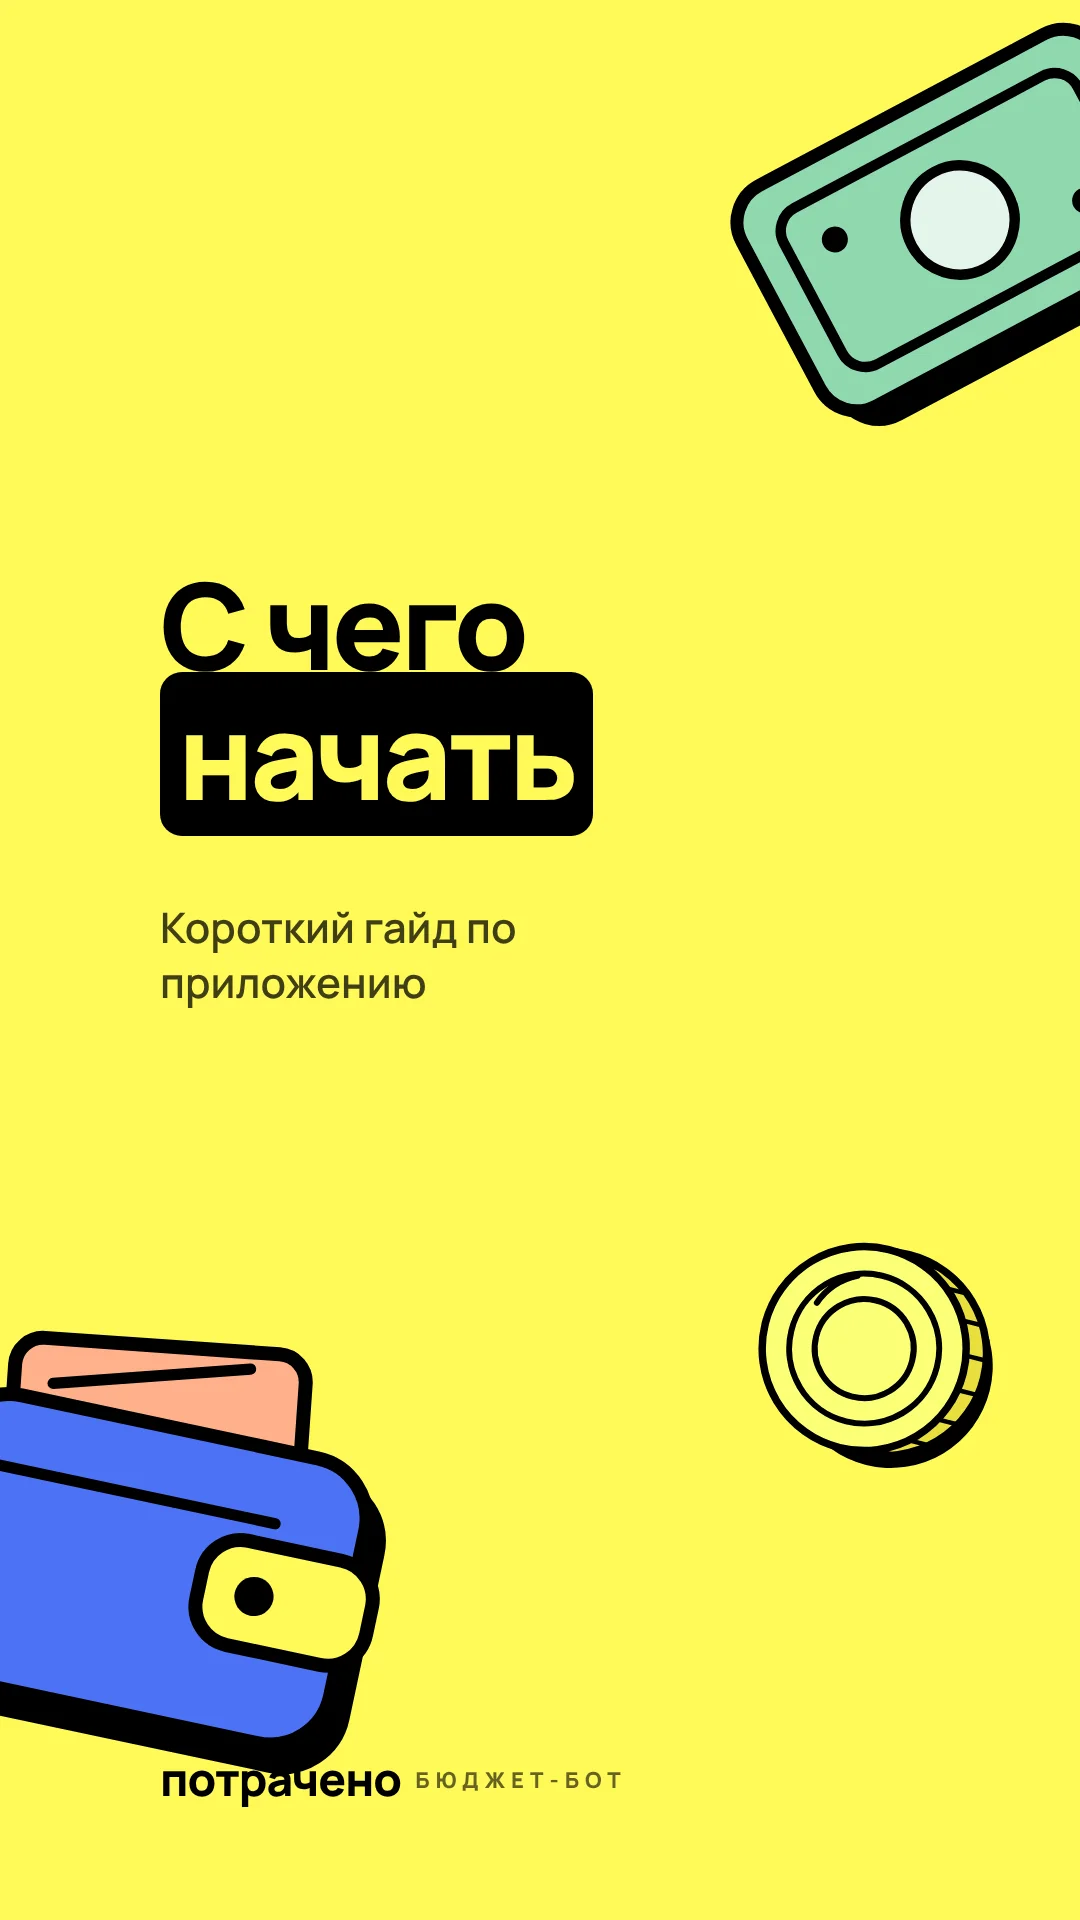
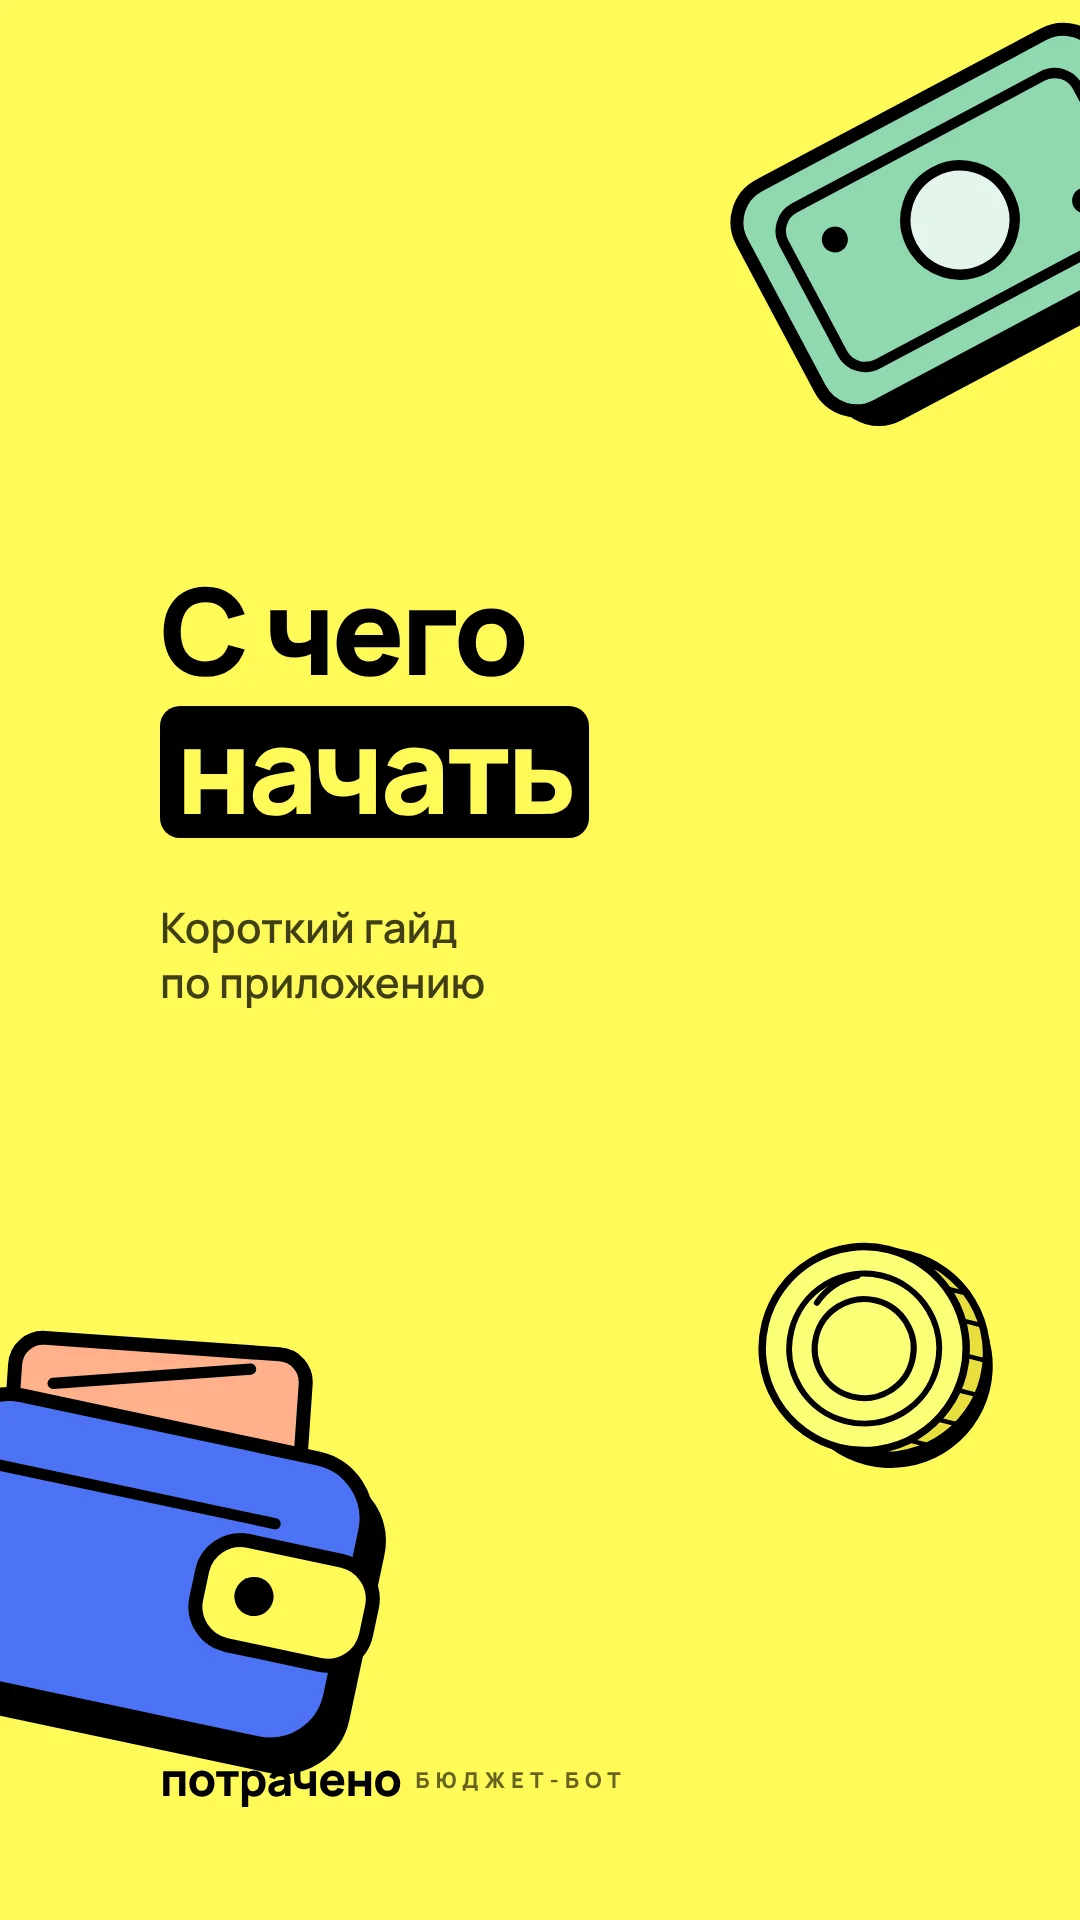
How-to story: no illustrations on inner slides, one heading size, no hanging prepositions, tighter highlights
Claude-Session: https://claude.ai/code/session_01WNVyaQ5xEYBgBD9CWen9CJ

Changed region(s): [[0.1222, 0.2812, 0.55, 0.4375], [0.1833, 0.4688, 0.4889, 0.5312]]

diff --git a/public/app.js b/public/app.js
@@ -299,7 +299,7 @@
       id: 'howto-v1', langs: ['ru'], duration: 6000, days: 7, // в ленте — первую неделю, потом только в настройках
       title: { ru: 'С чего начать', en: 'Getting started' },
       cover: 'stories/howto/cover.webp',
-      slides: Array.from({ length: 12 }, (_, i) => `stories/howto2/${i + 1}.webp`),
+      slides: Array.from({ length: 12 }, (_, i) => `stories/howto2/${i + 1}.webp?v=2`),
     },
   ];
   const seenStory = (id) => (state.me.seenStories || []).includes(id);
